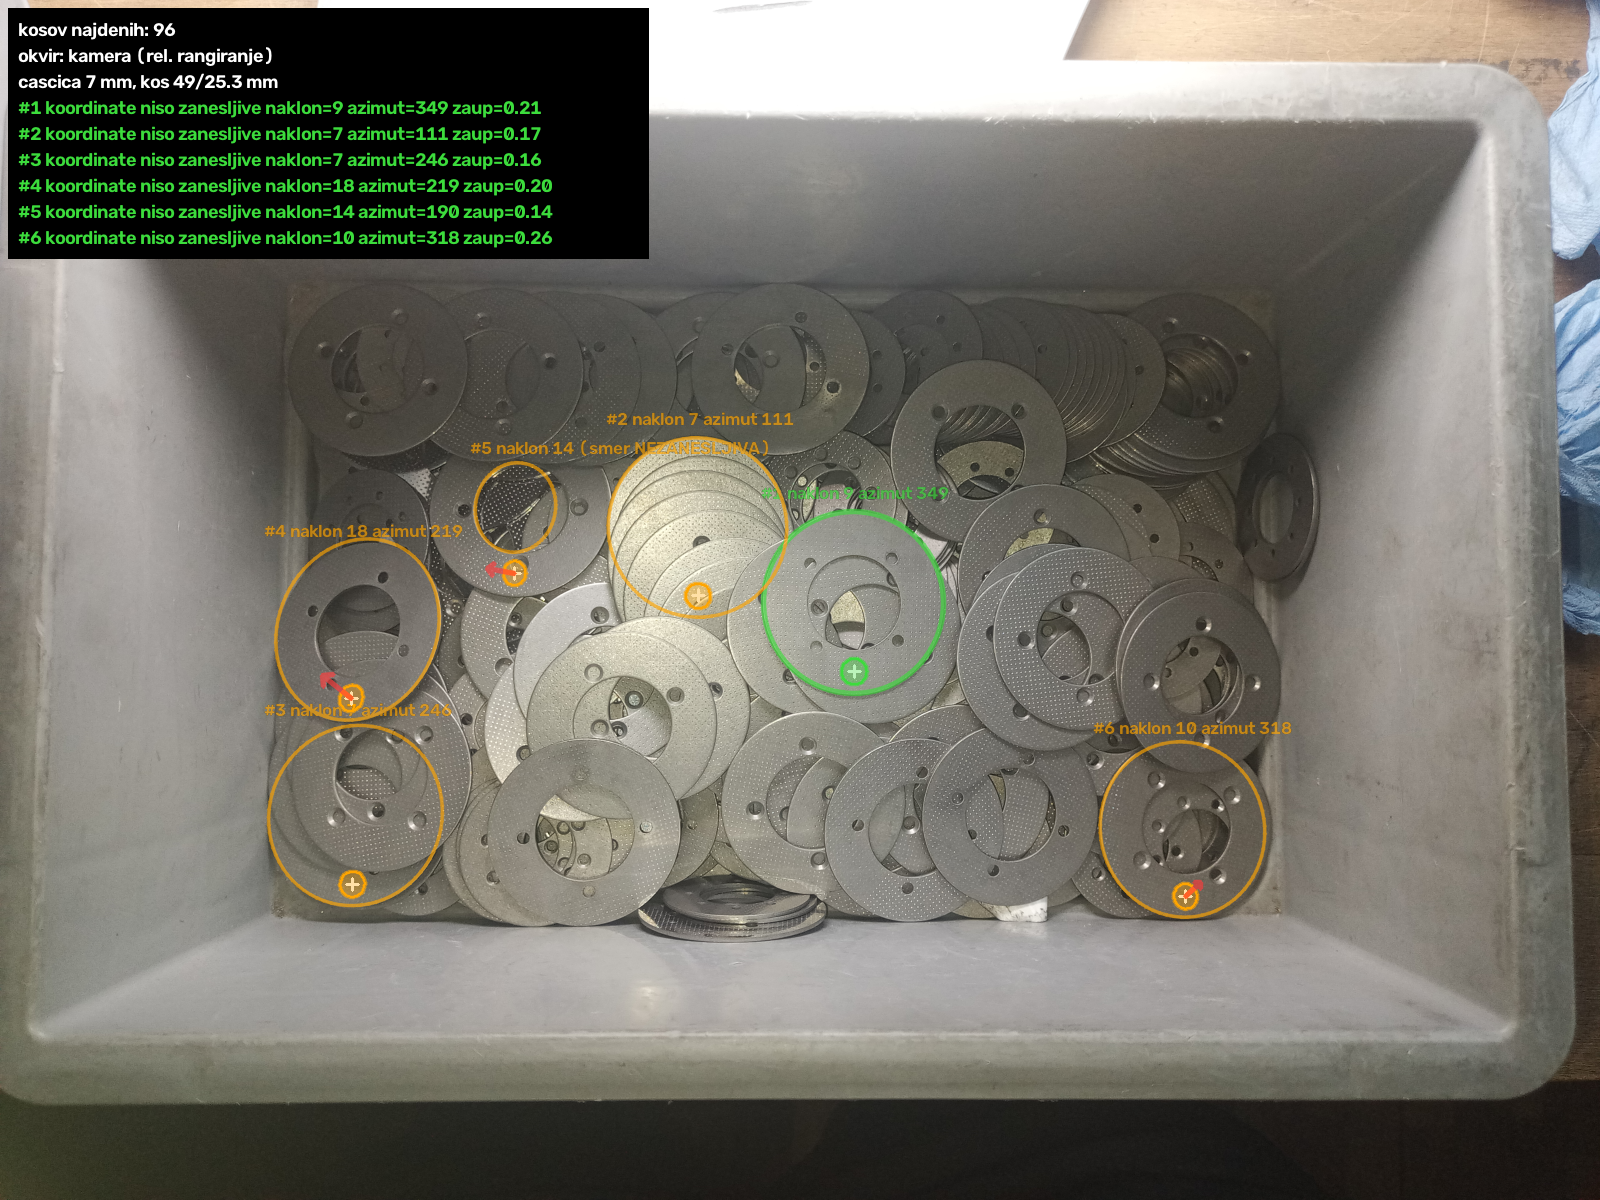
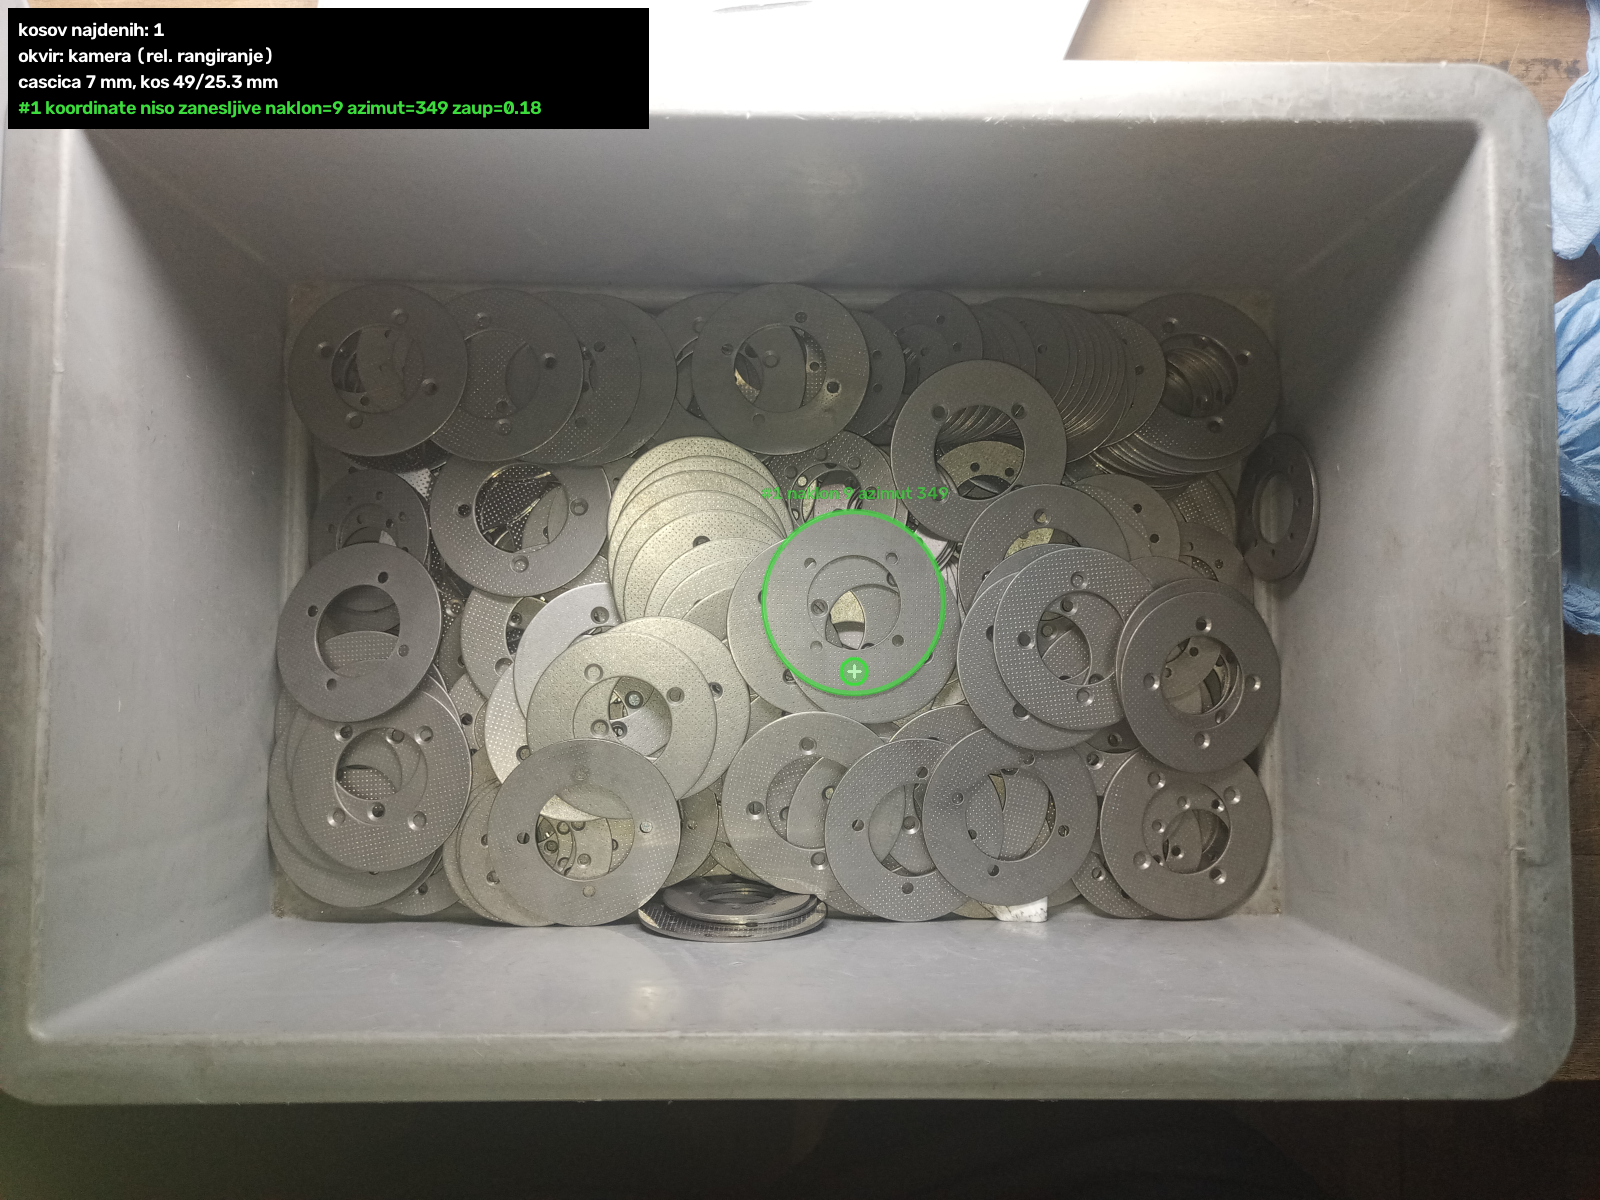
Vidnost obrisa iz gradienta + vrata najvecje prekritosti
Primerjane so bile stiri mere podprtosti obrisa proti resnicni vidnosti
(210 kosov na gostih sinteticnih scenah):

  blizina robnih tock (prejsnja)      korelacija 0.935
  blizina + ujemanje smeri gradienta             0.983
  radialni gradient vzdolz oboda                 0.992  <- izbrana
  profil svetlosti znotraj/zunaj                 0.970

Da je primerjava sploh smiselna, je bilo treba v generator dodati vzorcek na
povrsini kosa - brez njega so vse stiri mere videti enako dobre, ker ni vira
laznih robnih tock. Prav ta vzorcek na resnicnih kosih podre mero blizine.

Izbrana mera ne potrebuje robnih tock ne KD-drevesa, le gradient slike v
tockah oboda. Predznak se vzame iz same elipse (obris je svetel znotraj,
luknja temna); s fiksnim predznakom bi vse luknje padle ven in parjenje bi se
podrlo.

Dodana so vrata scoring.max_occlusion: kos, ki mu je prekritega vec od tega
deleza oboda, ni na vrhu in se zavrne. Prag je 0.25 in ne 0.10, ker popolnoma
viden kos na resnicni fotografiji doseze vidnost 0.81, ne 1.0.

Ucinek na sinteticnem setu: preciznost detekcije 0.96 -> 1.00, XY RMSE
0.36 -> 0.26 mm, Z RMSE 2.03 -> 1.54 mm, recall 0.986 -> 0.973.

Na uporabnikovi fotografiji ostane natanko en kandidat - tisti, ki ga je
uporabnik oznacil kot edinega pravega.

59 testov, vsi zeleni.

Claude-Session: https://claude.ai/code/session_01AbxqwaT9jpcFbwQqBKJ8Fn

diff --git a/flange_picker/synth.py b/flange_picker/synth.py
@@ -117,6 +117,37 @@ def _place_flanges(cfg: Config, rng: np.random.Generator, n: int) -> List[Dict]:
     return placed
 
 
+def _annotate_visibility(entries: List[Dict], r_out: float, k_mat: np.ndarray,
+                         image_size: Tuple[int, int], n_samples: int = 180) -> None:
+    """Doda vsakemu kosu delez oboda, ki ga ne prekriva noben blizji kos."""
+    width, height = image_size
+    discs = []
+    for e in entries:
+        centre = np.array(e["center_cam"])
+        normal = np.array(e["normal_cam"])
+        poly = project_points(circle_points_3d(centre, normal, r_out, 96), k_mat)
+        discs.append((float(e["depth_mm"]), poly.astype(np.float32)))
+        e["centre_px"] = project_points(centre[None, :], k_mat)[0].tolist()
+    for e, (depth, _) in zip(entries, discs):
+        centre = np.array(e["center_cam"])
+        normal = np.array(e["normal_cam"])
+        rim = project_points(circle_points_3d(centre, normal, r_out, n_samples), k_mat)
+        visible = 0
+        for pt in rim:
+            if not (0 <= pt[0] < width and 0 <= pt[1] < height):
+                continue
+            blocked = False
+            for other_depth, poly in discs:
+                if other_depth >= depth - 1e-9:
+                    continue
+                if cv2.pointPolygonTest(poly, (float(pt[0]), float(pt[1])), False) >= 0:
+                    blocked = True
+                    break
+            if not blocked:
+                visible += 1
+        e["visible_fraction"] = float(visible) / float(n_samples)
+
+
 def _plane_axes(normal: np.ndarray) -> Tuple[np.ndarray, np.ndarray]:
     n = np.asarray(normal, dtype=float)
     n = n / np.linalg.norm(n)
@@ -249,6 +280,27 @@ def render_scene(cfg: Optional[Config] = None, seed: int = 0,
                 poly = project_points(circle_points_3d(centre, normal_cam, r_bolt, 48), k_render)
                 cv2.fillPoly(hole, [_poly(poly)], 255, shift=_SHIFT)
         img[hole > 0] = before[hole > 0]
+        # Vzorcek (perforacija) na kolobarju: resnicni kosi ga imajo gostega in
+        # je glavni vir laznih robov - brez njega je sinteticna scena prelahka.
+        n_dots = int(cfg.get("synth.texture_dot_count", 0) or 0)
+        if n_dots:
+            r_dot = 0.5 * float(cfg["synth.texture_dot_diameter_mm"])
+            u_vec, v_vec = _plane_axes(normal_cam)
+            rings = max(1, int(round(math.sqrt(n_dots / 6.0))))
+            drawn = 0
+            for ring in range(rings):
+                rr = r_in * 1.18 + (r_out * 0.92 - r_in * 1.18) * (ring + 0.5) / rings
+                per_ring = max(6, int(2.0 * math.pi * rr / (2.6 * r_dot)))
+                for k in range(per_ring):
+                    if drawn >= n_dots:
+                        break
+                    ang = 2.0 * math.pi * (k + 0.5 * (ring % 2)) / per_ring
+                    centre_dot = center_cam + rr * (math.cos(ang) * u_vec + math.sin(ang) * v_vec)
+                    poly = project_points(circle_points_3d(centre_dot, normal_cam, r_dot, 12),
+                                          k_render)
+                    cv2.fillPoly(img, [_poly(poly)],
+                                 shade * float(cfg["synth.texture_darkening"]), shift=_SHIFT)
+                    drawn += 1
         if specular and rng.random() < float(cfg["synth.specular_probability"]):
             theta = float(rng.uniform(0, 2 * math.pi))
             r_spec = float(rng.uniform(r_in * 1.15, r_out * 0.92))
@@ -269,6 +321,11 @@ def render_scene(cfg: Optional[Config] = None, seed: int = 0,
         img = img + rng.normal(0.0, noise, img.shape).astype(np.float32)
     image = np.clip(img, 0, 255).astype(np.uint8)
 
+    # Resnicna vidnost oboda vsakega kosa: delez tock zunanjega kroga, ki jih ne
+    # prekriva noben blizji kos. To je merilo, proti kateremu se primerjajo
+    # razlicne mere podprtosti obrisa.
+    _annotate_visibility(entries, r_out, k_mat, (width, height))
+
     gt = {
         "f_px": float(f_px),
         "image_size": [width, height],
@@ -277,7 +334,8 @@ def render_scene(cfg: Optional[Config] = None, seed: int = 0,
         "box": {"w_mm": w_mm, "h_mm": h_mm,
                 "corners_px": bottom_px_img.tolist()},
         "flanges": [{k: e[k] for k in
-                     ("x_mm", "y_mm", "z_mm", "tilt_deg", "azimuth_deg", "normal", "depth_mm")}
+                     ("x_mm", "y_mm", "z_mm", "tilt_deg", "azimuth_deg", "normal", "depth_mm",
+                      "visible_fraction", "centre_px")}
                     for e in entries],
         "seed": int(seed),
     }

diff --git a/flange_picker/ellipse.py b/flange_picker/ellipse.py
@@ -270,6 +270,44 @@ def compute_support(ellipses: Sequence[Ellipse], edge_points: np.ndarray, cfg: C
         ell.support_ratio = float(np.mean(dist <= tol))
 
 
+def compute_support_gradient(ellipses: Sequence[Ellipse], gx: Optional[np.ndarray],
+                             gy: Optional[np.ndarray], cfg: Config,
+                             n_samples: int = 180) -> None:
+    """Podprtost obrisa iz gradienta slike neposredno, brez robnih tock.
+
+    Vzdolz oboda vzorcimo gradient in stejemo delez tock, kjer ta kaze navznoter
+    z zadostno jakostjo (svetlo znotraj, temno zunaj). Kjer kos prekriva drug
+    kos, tega skoka ni in tocka ne steje.
+
+    Izmerjeno proti resnicni vidnosti na gostih sinteticnih scenah z vzorckom na
+    povrsini (210 kosov): korelacija 0.992 proti 0.935 pri prejsnji meri, ki je
+    stela zgolj blizino robnih tock. Ta je pri perforiranih kosih zavedena, ker
+    robne tocke lezijo povsod po povrsini.
+    """
+    if gx is None or gy is None:
+        for ell in ellipses:
+            ell.support_ratio = 0.0
+        return
+    mag = np.hypot(gx, gy)
+    strong = mag[mag > np.percentile(mag, float(cfg["ellipse.support_scale_percentile"]))]
+    scale = float(np.median(strong)) if strong.size else 1.0
+    threshold = float(cfg["ellipse.support_gradient_factor"]) * scale
+    h, w = gx.shape[:2]
+    for ell in ellipses:
+        pts = ell.perimeter_points(n_samples)
+        nrm = ell.outward_normals(n_samples)
+        xi = np.clip(np.round(pts[:, 0]).astype(int), 0, w - 1)
+        yi = np.clip(np.round(pts[:, 1]).astype(int), 0, h - 1)
+        radial = gx[yi, xi] * nrm[:, 0] + gy[yi, xi] * nrm[:, 1]
+        inside_image = ((pts[:, 0] >= 0) & (pts[:, 0] < w)
+                        & (pts[:, 1] >= 0) & (pts[:, 1] < h))
+        # Predznak vzamemo iz same elipse: obris kosa je svetel znotraj
+        # (radialni gradient negativen), luknja pa temna znotraj (pozitiven).
+        # Brez tega bi mera zavrgla vse luknje in s tem podrla parjenje.
+        sign = -1.0 if float(np.median(radial)) < 0 else 1.0
+        ell.support_ratio = float(np.mean(inside_image & (radial * sign > threshold)))
+
+
 def compute_polarity(ellipses: Sequence[Ellipse], gx: Optional[np.ndarray],
                      gy: Optional[np.ndarray], cfg: Config, n_samples: int = 180) -> None:
     """Predznacena polariteta roba: v katero smer pada svetlost cez obod.

diff --git a/flange_picker/tests/test_pipeline.py b/flange_picker/tests/test_pipeline.py
@@ -141,3 +141,42 @@ def test_require_full_cup_clearance_rejects_everything(cfg):
     result = process_image(scene.image, strict)
     assert result.to_json(strict)["candidates"] == []
     assert result.rejected and all(e["reason"] for e in result.rejected)
+
+
+def test_occlusion_gate_keeps_only_top_layer(cfg):
+    """Prekrit kos mora pasti ven, neprekrit ostati.
+
+    Mera vidnosti se meri iz gradienta vzdolz oboda: kjer kos prekriva drugega,
+    skoka svetlosti ni in tocka ne steje.
+    """
+    free = flat_flange(120.0, 90.0)
+    covered = flat_flange(250.0, 150.0)
+    on_top = flat_flange(268.0, 150.0, z_mm=2.25, tilt_deg=4.0)
+    scene = render_scene(cfg, seed=40, camera_tilt_deg=4.0,
+                         flanges=[free, covered, on_top])
+    result = process_image(scene.image, cfg)
+    data = result.to_json(cfg)
+    assert data["candidates"], "prosti kos bi moral ostati"
+    for cand in data["candidates"]:
+        assert cand["occlusion_ratio"] >= 1.0 - float(cfg["scoring.max_occlusion"])
+    matched = match_to_gt(data["candidates"], [covered], cfg, max_dist_mm=12.0)
+    assert not matched, "prekrit kos ne sme priti med kandidate"
+
+
+def test_occlusion_threshold_is_configurable(cfg):
+    """Prag prekritosti mora dejansko vplivati na izbor."""
+    scene = render_scene(cfg, seed=41, n_flanges=8, camera_tilt_deg=4.0)
+    strict = cfg.with_overrides({"scoring": {"max_occlusion": 0.02}})
+    loose = cfg.with_overrides({"scoring": {"max_occlusion": 0.60}})
+    n_strict = len(process_image(scene.image, strict).to_json(strict)["candidates"])
+    n_loose = len(process_image(scene.image, loose).to_json(loose)["candidates"])
+    assert n_strict <= n_loose
+
+
+def test_gradient_support_is_high_for_isolated_flange(cfg):
+    """Osamljen kos mora imeti skoraj cel obod viden."""
+    scene = render_scene(cfg, seed=42, camera_tilt_deg=4.0,
+                         flanges=[flat_flange(200.0, 150.0)])
+    data = process_image(scene.image, cfg).to_json(cfg)
+    assert data["candidates"]
+    assert data["candidates"][0]["occlusion_ratio"] > 0.9

diff --git a/flange_picker/pipeline.py b/flange_picker/pipeline.py
@@ -19,8 +19,9 @@ import numpy as np
 from . import autocalib as autocalib_mod
 from .config import Config, load_config
 from .edges import detect_edges
-from .ellipse import (apply_edge_bias, compute_polarity, compute_support, deduplicate,
-                      estimate_edge_bias, fit_contour, pair_ellipses)
+from .ellipse import (apply_edge_bias, compute_polarity, compute_support,
+                      compute_support_gradient, deduplicate, estimate_edge_bias, fit_contour,
+                      pair_ellipses)
 from .pose import build_flange_pose
 from .preprocess import preprocess, to_gray
 from .scoring import Candidate, score_candidates
@@ -103,7 +104,10 @@ def process_image(image: np.ndarray, cfg: Optional[Config] = None, debug: bool =
     for contour in edge_map.contours:
         raw_ellipses.extend(fit_contour(contour, cfg))
     ellipses = deduplicate(raw_ellipses, cfg)
-    compute_support(ellipses, edge_map.points, cfg)
+    if str(cfg["ellipse.support_method"]) == "gradient":
+        compute_support_gradient(ellipses, edge_map.gx, edge_map.gy, cfg)
+    else:
+        compute_support(ellipses, edge_map.points, cfg)
     compute_polarity(ellipses, edge_map.gx, edge_map.gy, cfg)
     min_support = float(cfg["ellipse.min_support_ratio"])
     weak = [e for e in ellipses if e.support_ratio < min_support]

diff --git a/flange_picker/scoring.py b/flange_picker/scoring.py
@@ -204,6 +204,7 @@ def score_candidates(candidates: List[Candidate], calib, cfg: Config,
             h_inv = np.linalg.inv(calib.homography)
         except np.linalg.LinAlgError:
             h_inv = None
+    max_occ = float(cfg["scoring.max_occlusion"])
     kept: List[Candidate] = []
     for cand, height in zip(candidates, heights):
         size_ratio = None
@@ -213,7 +214,10 @@ def score_candidates(candidates: List[Candidate], calib, cfg: Config,
                 scale = _homography_scale(calib.homography, hom[:2] / hom[2])
                 if scale and scale > 0:
                     size_ratio = cand.pair.outer.a / (scale * r_out_mm)
-        if size_ratio is not None and not (size_lo <= size_ratio <= size_hi):
+        if cand.occlusion_ratio < 1.0 - max_occ:
+            cand.rejected = (f"prekritih {100.0 * (1.0 - cand.occlusion_ratio):.0f} % oboda, "
+                             f"dovoljeno je {100.0 * max_occ:.0f} % - kos ni na vrhu")
+        elif size_ratio is not None and not (size_lo <= size_ratio <= size_hi):
             cand.rejected = (f"velikost elipse ne ustreza kosu: izmerjena je {size_ratio:.2f}-krat "
                              "pricakovana za ta polozaj (najbrz zlepek kontur vec kosov)")
         elif calib.frame_reliable and cand.pose.center_box is not None and not (

diff --git a/ROADMAP.md b/ROADMAP.md
@@ -70,19 +70,19 @@ Ground truth je znana po konstrukciji (generator `flange_picker/synth.py`).
 
 ### Izmerjene metrike (12 scen, seed 100)
 
-| Metrika | Prvi mejnik | Po izboljšavah | + podana stena |
+| Metrika | Prvi mejnik | Po izboljšavah | + vrata prekritosti |
 |---|---|---|---|
-| detekcija — recall (v sliki) | 0.918 | **0.986** | 0.986 |
-| detekcija — preciznost | 0.827 | **0.960** | 0.947 |
+| detekcija — recall (v sliki) | 0.918 | **0.986** | 0.973 |
+| detekcija — preciznost | 0.827 | 0.960 | **1.000** |
 | okvir zaboja na voljo | 83 % | **100 %** | 100 % |
 | ujemanje poze — recall | 0.891 | **0.973** | 0.973 |
-| XY RMSE | 0.36 mm | 0.36 mm | 0.36 mm |
-| Z RMSE | 1.97 mm | 2.03 mm | 2.25 mm |
+| XY RMSE | 0.36 mm | 0.36 mm | **0.26 mm** |
+| Z RMSE | 1.97 mm | 2.03 mm | **1.54 mm** |
 | naklon RMSE | 2.09° | 1.78° | **1.30°** |
 | relativna napaka `f_px` | 11.0 % | 11.9 % | **2.3 %** |
 | prvi kandidat je iz vrhnje plasti | 80 % | **83 %** | 83 % |
 
-Zadnji stolpec: podana `box.wall_height_mm` in `box.wall_thickness_mm`.
+Zadnji stolpec: z gradientno mero vidnosti in `scoring.max_occlusion`.
 Metrike poze so računane le na scenah z veljavnim okvirom; detekcija se meri v
 sliki in je zato neodvisna od kalibracije.
 
@@ -154,6 +154,34 @@ notranji +0.04 px. Model razlike po zasnovi ne vidi. Ob premalo parih postane
 ocena šumna (+0.24 px pri dveh kosih) in popravek podre ujemanje para, zato je
 privzeto **izklopljen** in dodatno varovan s pragom razpršenosti. Za odpravo
 preostalega odmika Z je potrebna referenčna meritev na znanem kosu.
+
+**K16 — vidnost obrisa se najbolje meri iz gradienta, ne iz bližine robnih
+točk.** Primerjava štirih mer proti resnični vidnosti (210 kosov na gostih
+sintetičnih scenah z vzorčkom na površini):
+
+| mera | korelacija | AUC |
+|---|---|---|
+| bližina robnih točk (prejšnja) | 0.935 | 0.998 |
+| bližina + ujemanje smeri gradienta | 0.983 | 0.999 |
+| **radialni gradient vzdolž oboda** | **0.992** | **1.000** |
+| profil svetlosti znotraj/zunaj | 0.970 | 0.996 |
+
+Zmagovalka je hkrati najpreprostejša: ne potrebuje robnih točk ne KD-drevesa,
+le gradient slike v točkah oboda. Bližina robnih točk je pri perforiranih kosih
+zavedena, ker robne točke ležijo povsod po površini — vzorček na kosu je bilo
+treba dodati v generator, sicer so bile vse štiri mere videti enako dobre
+(AUC 1.000).
+
+Dvoje je bilo pri vgradnji bistveno:
+- Predznak mora priti iz same elipse. Obris je svetel znotraj, luknja temna;
+  fiksen predznak je zavrgel vse luknje in s tem podrl parjenje.
+- Na sintetičnih scenah popolnoma viden kos doseže ~1.0, na resnični fotografiji
+  pa 0.81 (fit ni popoln, deli obrisa se dotikajo sosedov enake svetlosti).
+  Prag `scoring.max_occlusion` je zato 0.25, ne 0.10.
+
+Učinek na sintetičnem setu: **preciznost detekcije 0.96 → 1.00**, XY RMSE
+0.36 → 0.26 mm, Z RMSE 2.03 → 1.54 mm, ob majhni ceni v recallu (0.986 → 0.973
+— prav zakopani kosi, ki jih vrata namenoma zavržejo).
 
 **K15 — na resnični fotografiji je bila pravilna le prva uvrstitev.** Zaboj
 (koritast, poševne stene, poln do vrha) je razkril troje, česar sintetične
